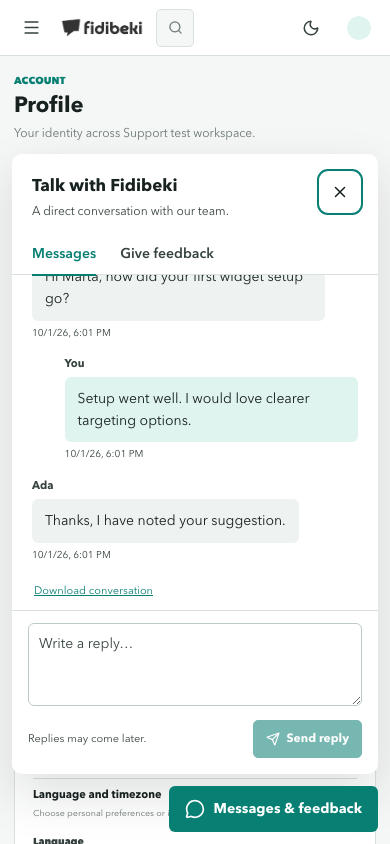
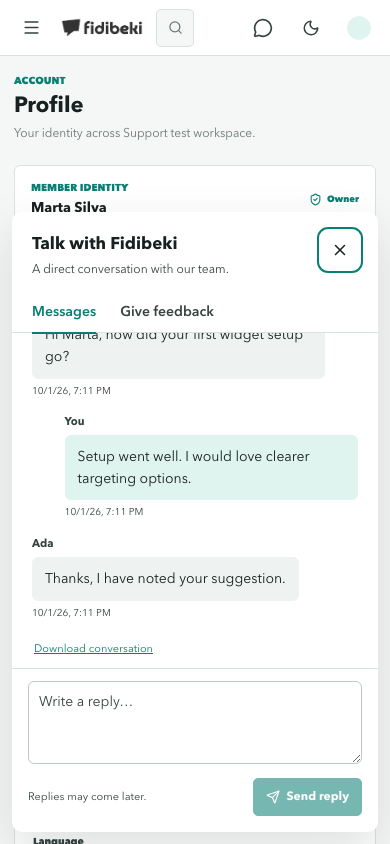
fix: keep support controls clear of page actions and restore storage CI

diff --git a/web/components/SupportPanel.client.vue b/web/components/SupportPanel.client.vue
@@ -2,7 +2,7 @@
 THESIS: A personal conversation stays beside the user's work and never interrupts it.
 OWN-WORLD: Existing Avenir typography, teal actions, solid surfaces, and six-pixel corners.
 STORY: Notice a message, read it, reply, or give structured feedback from one launcher.
-FIRST VIEWPORT: A bottom-right launcher; a quiet preview only for unread staff messages.
+FIRST VIEWPORT: A header message button; a quiet preview only for unread staff messages.
 FORM: Scoped extension of the app shell. A compact conversation panel and two explicit tabs.
 -->
 <script setup lang="ts">
@@ -121,18 +121,17 @@ onBeforeUnmount(() => {
         <div ref="feedbackTarget" />
       </div>
     </section>
-    <button ref="launcher" type="button" class="support-launcher" aria-controls="fidibeki-support" :aria-expanded="open" @click="open ? close() : open = true">
-      <MessageCircle :size="20" /><span>{{ t('support.launcher') }}</span><span v-if="unread" class="support-badge" :aria-label="t('support.unread', { count: unread })">{{ unread > 99 ? '99+' : unread }}</span>
+    <button ref="launcher" type="button" class="support-launcher app-icon-button" :title="t('support.launcher')" :aria-label="t('support.launcher')" aria-controls="fidibeki-support" :aria-expanded="open" @click="open ? close() : open = true">
+      <MessageCircle :size="20" /><span v-if="unread" class="support-badge" :aria-label="t('support.unread', { count: unread })">{{ unread > 99 ? '99+' : unread }}</span>
     </button>
   </div>
 </template>
 
 <style scoped>
-.support-root { position: fixed; right: 20px; bottom: 20px; z-index: 90; font-size: 14px; }
-.support-launcher { display: flex; align-items: center; gap: 9px; margin-left: auto; min-height: 46px; padding: 0 16px; border: 0; border-radius: var(--radius); background: var(--teal-fill); color: var(--on-accent); font: inherit; font-weight: 650; cursor: pointer; }
-.support-launcher:hover { background: var(--teal-fill-strong); }
-.support-badge { display: grid; min-width: 22px; height: 22px; padding: 0 5px; place-items: center; border-radius: 20px; background: var(--on-accent); color: var(--teal-fill); font-size: 12px; }
-.support-panel { display: flex; flex-direction: column; width: 380px; height: min(620px, calc(100dvh - 100px)); margin-bottom: 12px; border-radius: 10px; background: var(--surface); color: var(--ink); box-shadow: var(--shadow-overlay); overflow: hidden; }
+.support-root { font-size: 14px; }
+.support-launcher { position: relative; }
+.support-badge { position: absolute; top: -3px; right: -5px; display: grid; min-width: 17px; height: 17px; padding: 0 3px; place-items: center; border-radius: 20px; background: var(--teal-fill); color: var(--on-accent); font-size: 10px; }
+.support-panel { position: fixed; right: 20px; bottom: 20px; z-index: 90; display: flex; flex-direction: column; width: 380px; height: min(620px, calc(100dvh - 100px)); border-radius: 10px; background: var(--surface); color: var(--ink); box-shadow: var(--shadow-overlay); overflow: hidden; }
 .support-head { display: flex; align-items: flex-start; justify-content: space-between; gap: 12px; padding: 20px 20px 14px; }
 .support-head strong { font-size: 17px; }
 .support-head p { margin: 4px 0 0; color: var(--ink-soft); font-size: 12px; }
@@ -163,7 +162,7 @@ onBeforeUnmount(() => {
 .support-notice { padding: 10px 16px; margin: 0; background: var(--surface-soft); color: var(--ink-soft); font-size: 12px; }
 .support-notice button, .support-feedback button, .support-older { border: 0; background: transparent; color: var(--teal); text-decoration: underline; cursor: pointer; }
 .support-feedback { flex: 1; min-height: 0; overflow-y: auto; padding: 16px; }
-.support-preview { position: relative; width: 310px; margin: 0 0 12px auto; background: var(--surface); box-shadow: var(--shadow-overlay); border-radius: 10px; }
+.support-preview { position: fixed; top: 68px; right: 20px; z-index: 90; width: 310px; background: var(--surface); box-shadow: var(--shadow-overlay); border-radius: 10px; }
 .support-preview-dismiss { position: absolute; right: 5px; top: 5px; }
 .support-preview-message { display: block; width: 100%; padding: 18px; border: 0; background: transparent; color: var(--ink); text-align: left; font: inherit; cursor: pointer; }
 .support-preview-message strong { display: block; padding-right: 24px; font-size: 12px; }
@@ -171,8 +170,7 @@ onBeforeUnmount(() => {
 .support-preview-message small { color: var(--teal); font-weight: 650; }
 button:focus-visible, textarea:focus-visible { outline: 2px solid var(--teal); outline-offset: 3px; }
 @media (max-width: 480px) {
-  .support-root { right: 12px; bottom: max(12px, env(safe-area-inset-bottom)); left: 12px; }
-  .support-panel { width: 100%; height: min(620px, calc(100dvh - 92px)); }
-  .support-preview { max-width: 100%; }
+  .support-panel { right: 12px; bottom: max(12px, env(safe-area-inset-bottom)); left: 12px; width: auto; height: min(620px, calc(100dvh - 92px)); }
+  .support-preview { right: 12px; max-width: calc(100vw - 24px); }
 }
 </style>

diff --git a/web/tests/e2e/pseudo-product-layout.spec.ts b/web/tests/e2e/pseudo-product-layout.spec.ts
@@ -1,6 +1,7 @@
 import { expect, test, type Route } from '@playwright/test'
 import { allTenantPermissions } from '../../data/permissions'
 import { visibleLayoutDefects } from './layout-assertions'
+import { mockSupportRequest } from './support-fixture'
 
 const tenantOrigin = `http://acme.localhost:${process.env.PLAYWRIGHT_PORT || '4321'}`
 const now = '2026-07-21T12:00:00.000Z'
@@ -188,6 +189,7 @@ test('pseudo-locale product surfaces remain responsive and preserve customer con
     const request = route.request()
     if (request.resourceType() === 'document') return route.continue()
     const path = new URL(request.url()).pathname
+    if (await mockSupportRequest(route)) return
     if ((path === '/auth/verify' || path === '/auth/refresh') && request.method() === 'POST') {
       return json(route, {
         access_token: 'pseudo-access-token',

diff --git a/web/tests/e2e/support-fixture.ts b/web/tests/e2e/support-fixture.ts
@@ -1,0 +1,17 @@
+import type { Route } from '@playwright/test'
+
+// Unrelated page journeys use an empty staff-initiated conversation. The
+// dedicated live-support suite exercises real delivery and replies without mocks.
+export async function mockSupportRequest(route: Route): Promise<boolean> {
+  const path = new URL(route.request().url()).pathname
+  if (path === '/v1/support/conversation') {
+    await route.fulfill({ json: { conversation: null, messages: [], has_more: false } })
+  } else if (path === '/v1/support/events') {
+    await route.fulfill({ contentType: 'text/event-stream', body: ': connected\n\n' })
+  } else if (path === '/v1/support/presence' || path.startsWith('/v1/support/presence/')) {
+    await route.fulfill({ json: {} })
+  } else {
+    return false
+  }
+  return true
+}

diff --git a/web/layouts/default.vue b/web/layouts/default.vue
@@ -290,6 +290,7 @@ watch(
         <kbd class="app-kbd">{{ shortcutHint }}</kbd>
       </button>
       <div class="app-topbar-actions">
+        <SupportPanel v-if="member && !tenant?.deletion_requested_at" />
         <NuxtLink v-if="tenant?.status === 'trial'" to="/billing" class="app-trial-status">
           <i /> {{ trialLabel }}
         </NuxtLink>
@@ -392,6 +393,5 @@ watch(
     </main>
     <AppCommandPalette v-if="can('feedback:read')" :open="paletteOpen" :options="commandOptions" @close="paletteOpen = false" />
     <AppToast />
-    <SupportPanel v-if="member && !tenant?.deletion_requested_at" :inert="mobileNavOpen" />
   </div>
 </template>

diff --git a/web/tests/e2e/dispatch-platform.spec.ts b/web/tests/e2e/dispatch-platform.spec.ts
@@ -6,6 +6,7 @@ import {
   type TestInfo,
 } from "@playwright/test";
 import { allTenantPermissions } from "../../data/permissions";
+import { mockSupportRequest } from "./support-fixture";
 import type {
   PrivacyCase,
   PrivacyCaseCommunication,
@@ -1389,6 +1390,7 @@ async function installMockAPI(page: Page, state: MockState) {
     if (request.resourceType() === "document") return route.continue();
     const url = new URL(request.url());
     const path = url.pathname;
+    if (await mockSupportRequest(route)) return;
     const method = request.method();
     const body = () => request.postDataJSON() as Record<string, unknown>;
 

diff --git a/backend/internal/storage/storage_integration_test.go b/backend/internal/storage/storage_integration_test.go
@@ -21,10 +21,13 @@ func TestStorageCreatesAndChecksBucketAgainstMinIO(t *testing.T) {
 	if testing.Short() {
 		t.Skip("skipping MinIO integration test in short mode")
 	}
-	ctx, cancel := context.WithTimeout(context.Background(), 2*time.Minute)
+	ctx, cancel := context.WithTimeout(context.Background(), 10*time.Minute)
 	defer cancel()
 
-	container, err := testcontainers.Run(ctx, "minio/minio:RELEASE.2025-09-07T16-13-09Z",
+	container, err := testcontainers.Run(ctx, "",
+		testcontainers.WithDockerfile(testcontainers.FromDockerfile{
+			Context: "testdata/minio",
+		}),
 		testcontainers.WithExposedPorts("9000/tcp"),
 		testcontainers.WithEnv(map[string]string{
 			"MINIO_ROOT_USER":     "fidibeki-test",

diff --git a/docs/evidence/live-support-validation.md b/docs/evidence/live-support-validation.md
@@ -42,6 +42,18 @@ unchanged coverage gate passed that combined current profile.
 
 ## Reproduction and limits
 
+Release CI exposed launcher collisions with project actions and the feedback
+inspector. The launcher now occupies the app header; the conversation panel
+remains beside the page. All nine affected desktop/mobile regressions pass
+(one existing desktop-only fullscreen case is skipped on mobile), as does the
+real-stack journey. The screenshots above reflect this correction. Legacy
+mocked page journeys now provide the new support endpoints explicitly.
+
+The upstream MinIO container used by storage integration tests was removed.
+Those tests now build the same release from its pinned source commit instead
+of depending on the removed image. The support journey submits text feedback
+and only requires PostgreSQL and Redis.
+
 Run `pnpm test:live-support` from the repository root, then the checks in
 [the release runbook](../live-support.md). The runner creates a unique Docker
 project and requires a dedicated loopback fixture database; it cannot fall back

diff --git a/docs/live-support.md b/docs/live-support.md
@@ -2,7 +2,7 @@
 
 Platform staff open **Conversations** in the backoffice, choose an online member,
 and send a personal message. A member receives a dismissible preview in the app's
-**Messages & feedback** launcher. Members can reply after staff start a thread,
+**Messages & feedback** button in the app header. Members can reply after staff start a thread,
 including while staff are away. They cannot initiate a chat. Give feedback keeps
 the existing structured feedback workflow.
 
